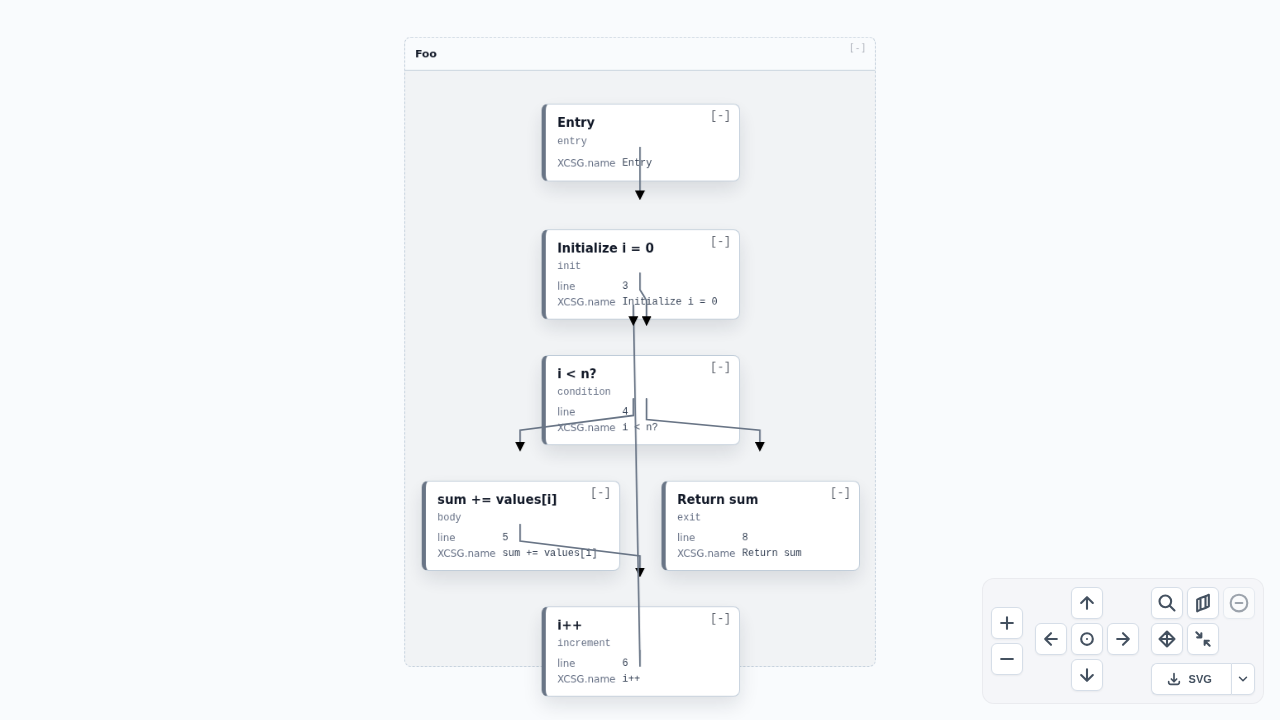
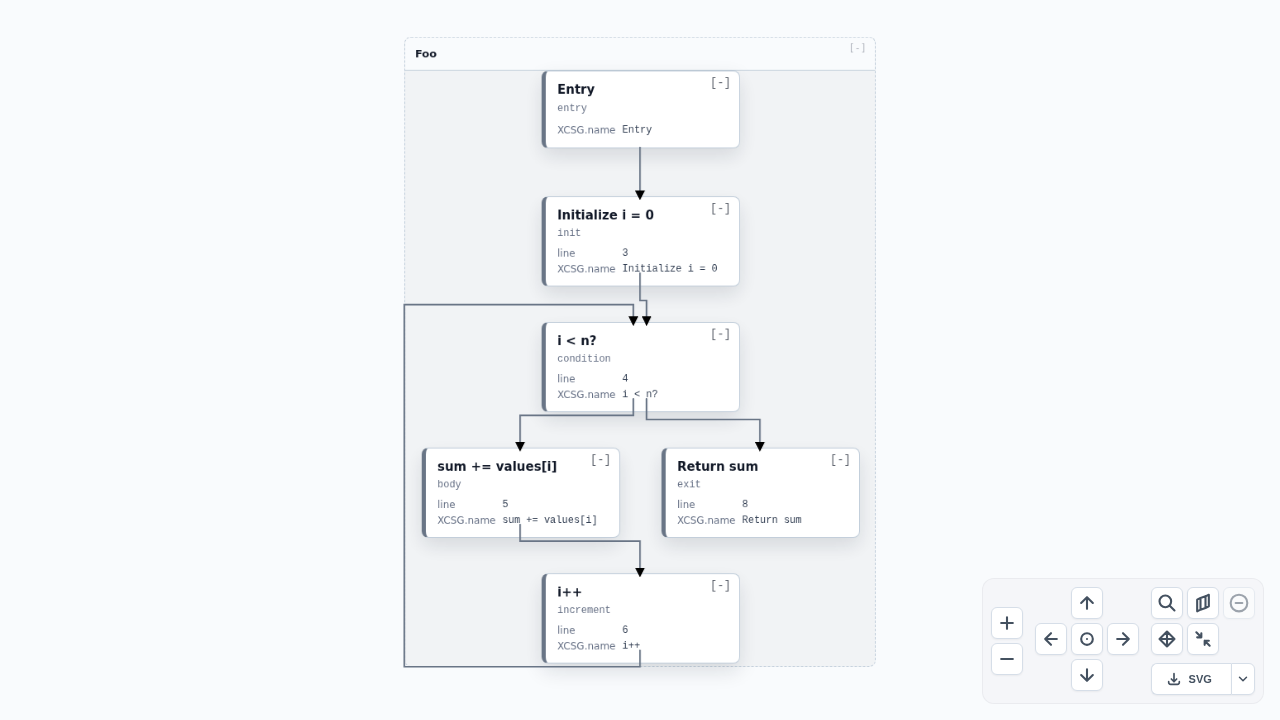
fix: compound node edge connection routing offsets & A* boundary avoidance\n\n- Fixes an issue where node bodies inside compound nodes were missing `position: absolute`, causing standard document layout flow to vertically stack nodes before `.pgv-compound-node` offsets were applied. This caused a mi

Changed region(s): [[0.3125, 0.275, 0.6875, 0.9472], [0.4062, 0.0917, 0.5938, 0.2444], [0.625, 0.6417, 0.6562, 0.6722]]

diff --git a/src/layout.ts b/src/layout.ts
@@ -672,10 +672,11 @@ function routeEdgeOrthogonal(
 ): readonly Point[] {
   const margin = 20;
 
-  const obstacles: { x: number; y: number; w: number; h: number }[] = [];
+  const obstacles: { id: string; x: number; y: number; w: number; h: number }[] = [];
   for (const [id, pos] of layout.positions.entries()) {
     const size = layout.nodeSizes?.get(id) || layout.nodeSize;
     obstacles.push({
+      id,
       x: pos.x,
       y: pos.y,
       w: size.width,
@@ -770,13 +771,21 @@ function routeEdgeOrthogonal(
   const endYIdx = getIdx(yCoords, targetPt.y);
 
   const isSegmentValid = (x1: number, y1: number, x2: number, y2: number) => {
-    const minX = Math.min(x1, x2);
-    const maxX = Math.max(x1, x2);
-    const minY = Math.min(y1, y2);
-    const maxY = Math.max(y1, y2);
+    // Add small epsilon to allow edges to route exactly on the boundary of nodes (or ports)
+    const minX = Math.min(x1, x2) + 0.1;
+    const maxX = Math.max(x1, x2) - 0.1;
+    const minY = Math.min(y1, y2) + 0.1;
+    const maxY = Math.max(y1, y2) - 0.1;
 
     for (let i = 0; i < obstacles.length; i++) {
       const obs = obstacles[i];
+
+      // If this obstacle is a compound node container, it shouldn't block edge routing
+      // traversing through it to connect to its inner children.
+      if (layout.hierarchy?.has(obs.id) && layout.hierarchy.get(obs.id)!.children.length > 0) {
+        continue;
+      }
+
       if (
         minX < obs.x + obs.w &&
         maxX > obs.x &&

diff --git a/src/style.css b/src/style.css
@@ -487,6 +487,9 @@
 }
 
 .graph-node {
+  position: absolute;
+  top: 0;
+  left: 0;
   z-index: 1; /* ensure nodes are visually above edges even if appended earlier */
   align-items: stretch;
   background: var(--pgv-node-bg);
